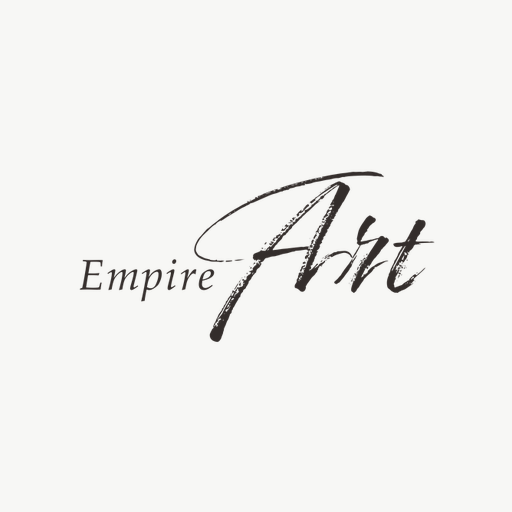
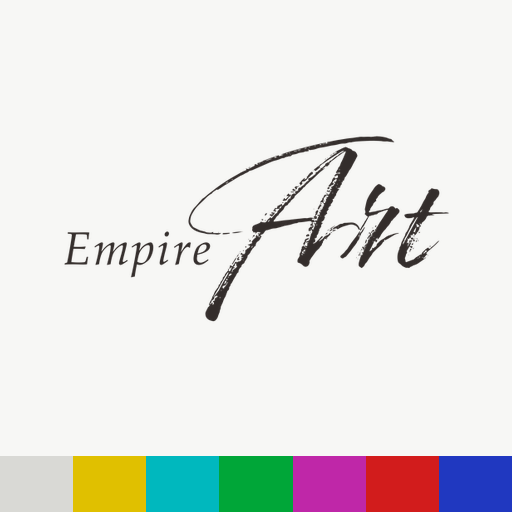
ファビコンをカラーバー化+OGP画像のサイズメタ追加
- favicon.ico: SMPTEカラーバー(16pxでも視認できるブランドアイコン)
- apple-touch-icon/icon-192/512: ロゴ+カラーバー帯(OGPと同じ意匠)
- og:image:width/height/alt を全ページに追加(クローラーの画像取得を確実に)

diff --git a/members.html b/members.html
@@ -10,11 +10,15 @@
   <meta property="og:description" content="メンバー - Empire Artのコアメンバーとパートナーをご紹介します">
   <meta property="og:url" content="https://empire-art.jp/members.html">
   <meta property="og:image" content="https://empire-art.jp/assets/img/common/ogp.png">
+  <meta property="og:image:width" content="1200">
+  <meta property="og:image:height" content="630">
+  <meta property="og:image:alt" content="Empire Art 株式会社">
   <meta property="og:site_name" content="Empire Art 株式会社">
   <meta name="twitter:card" content="summary_large_image">
   <meta name="google-site-verification" content="DiJruQ56RrKV0pojmZcEBf4RLF2raJs7DiAOiIQ7bW0" />
   <link rel="canonical" href="https://empire-art.jp/members.html">
   <link rel="icon" href="favicon.ico">
+  <link rel="icon" type="image/png" sizes="192x192" href="assets/img/common/icon-192.png">
   <link rel="apple-touch-icon" href="assets/img/common/apple-touch-icon.png">
   <link rel="preconnect" href="https://fonts.googleapis.com">
   <link rel="preconnect" href="https://fonts.gstatic.com" crossorigin>

diff --git a/company.html b/company.html
@@ -10,11 +10,15 @@
   <meta property="og:description" content="企業情報 - 会社概要、代表メッセージ、Our Philosophy">
   <meta property="og:url" content="https://empire-art.jp/company.html">
   <meta property="og:image" content="https://empire-art.jp/assets/img/common/ogp.png">
+  <meta property="og:image:width" content="1200">
+  <meta property="og:image:height" content="630">
+  <meta property="og:image:alt" content="Empire Art 株式会社">
   <meta property="og:site_name" content="Empire Art 株式会社">
   <meta name="twitter:card" content="summary_large_image">
   <meta name="google-site-verification" content="DiJruQ56RrKV0pojmZcEBf4RLF2raJs7DiAOiIQ7bW0" />
   <link rel="canonical" href="https://empire-art.jp/company.html">
   <link rel="icon" href="favicon.ico">
+  <link rel="icon" type="image/png" sizes="192x192" href="assets/img/common/icon-192.png">
   <link rel="apple-touch-icon" href="assets/img/common/apple-touch-icon.png">
   <link rel="preconnect" href="https://fonts.googleapis.com">
   <link rel="preconnect" href="https://fonts.gstatic.com" crossorigin>

diff --git a/business.html b/business.html
@@ -10,11 +10,15 @@
   <meta property="og:description" content="事業紹介 - Empire Artの5つの事業をご紹介">
   <meta property="og:url" content="https://empire-art.jp/business.html">
   <meta property="og:image" content="https://empire-art.jp/assets/img/common/ogp.png">
+  <meta property="og:image:width" content="1200">
+  <meta property="og:image:height" content="630">
+  <meta property="og:image:alt" content="Empire Art 株式会社">
   <meta property="og:site_name" content="Empire Art 株式会社">
   <meta name="twitter:card" content="summary_large_image">
   <meta name="google-site-verification" content="DiJruQ56RrKV0pojmZcEBf4RLF2raJs7DiAOiIQ7bW0" />
   <link rel="canonical" href="https://empire-art.jp/business.html">
   <link rel="icon" href="favicon.ico">
+  <link rel="icon" type="image/png" sizes="192x192" href="assets/img/common/icon-192.png">
   <link rel="apple-touch-icon" href="assets/img/common/apple-touch-icon.png">
   <link rel="preconnect" href="https://fonts.googleapis.com">
   <link rel="preconnect" href="https://fonts.gstatic.com" crossorigin>

diff --git a/index.html b/index.html
@@ -10,11 +10,15 @@
   <meta property="og:description" content="企業の事業内容・実績を明確に伝えるコーポレートサイト">
   <meta property="og:url" content="https://empire-art.jp/">
   <meta property="og:image" content="https://empire-art.jp/assets/img/common/ogp.png">
+  <meta property="og:image:width" content="1200">
+  <meta property="og:image:height" content="630">
+  <meta property="og:image:alt" content="Empire Art 株式会社">
   <meta property="og:site_name" content="Empire Art 株式会社">
   <meta name="twitter:card" content="summary_large_image">
   <meta name="google-site-verification" content="DiJruQ56RrKV0pojmZcEBf4RLF2raJs7DiAOiIQ7bW0" />
   <link rel="canonical" href="https://empire-art.jp/">
   <link rel="icon" href="favicon.ico">
+  <link rel="icon" type="image/png" sizes="192x192" href="assets/img/common/icon-192.png">
   <link rel="apple-touch-icon" href="assets/img/common/apple-touch-icon.png">
   <link rel="preconnect" href="https://fonts.googleapis.com">
   <link rel="preconnect" href="https://fonts.gstatic.com" crossorigin>
